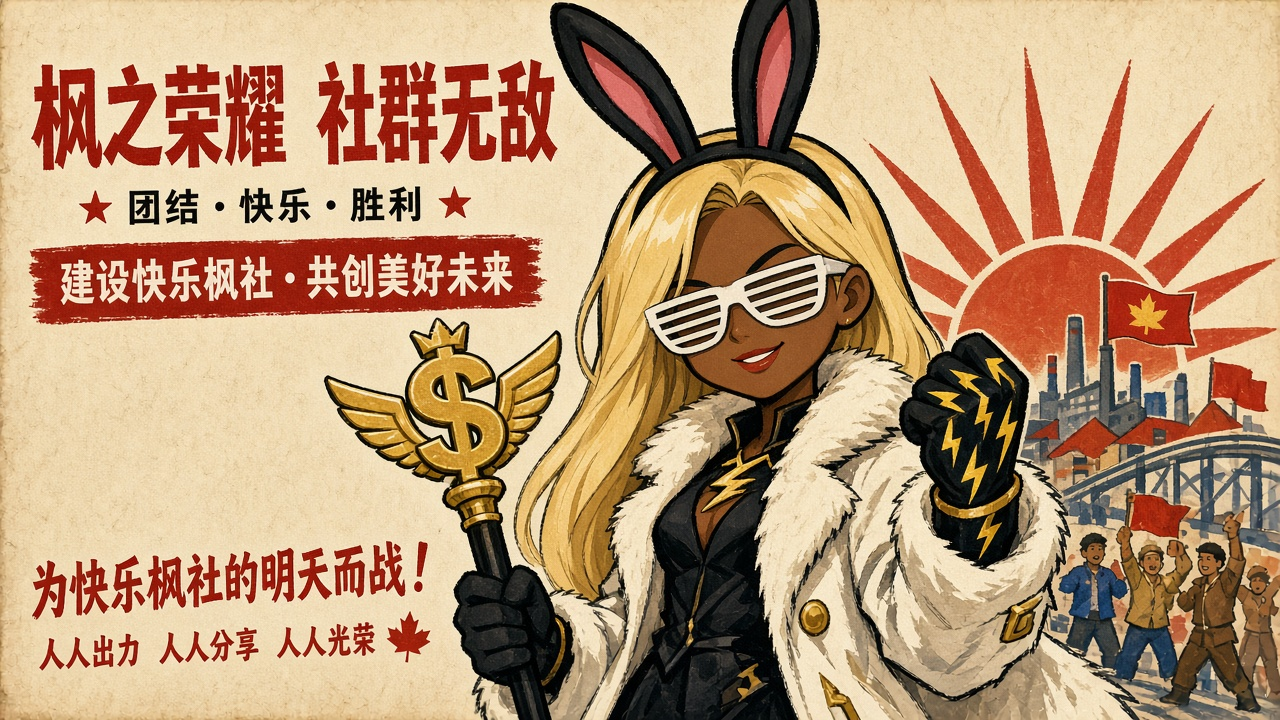
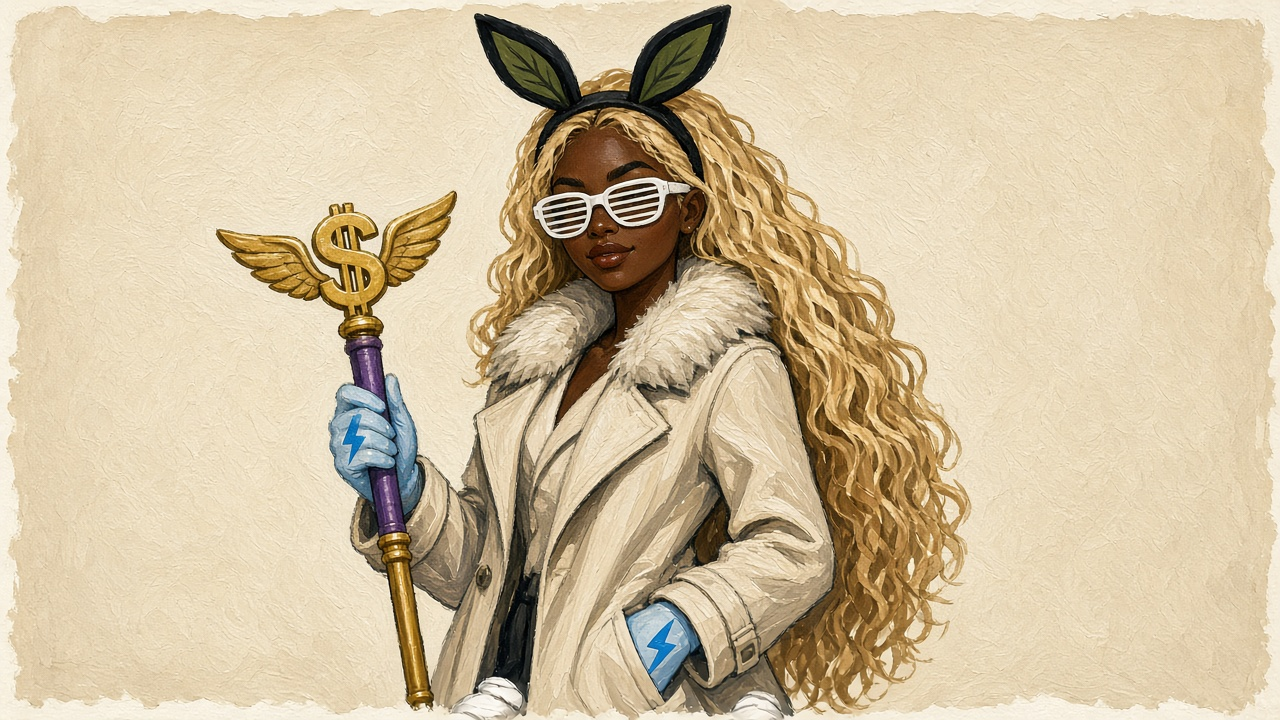
temp preview: NumbahWan LP v7.1 text-free + gs-costume wardrobe WIP

diff --git a/index.html b/index.html
@@ -80,6 +80,6 @@ footer{max-width:40rem;margin:0 auto;padding:0 .7rem 2rem;font-size:.62rem;opaci
     <h2>Evidence · likeness vs owned refs</h2>
     <img src="shots/likeness-hair-cane-reggina.png" alt="RegginA vs owned gs-costume and reggina.jpg" />
   </section>
-  <footer>v7 · Foundation 741ff7b9… · A–F HARD · temp Pages via Leader only</footer>
+  <footer>v7.1 · Foundation e642ba2b… · A–F HARD · temp Pages via Leader only</footer>
 </body>
 </html>

diff --git a/DESIGN.md b/DESIGN.md
@@ -1,29 +1,34 @@
-# DESIGN.md — NumbahWan LP v7
+# DESIGN.md — NumbahWan LP v7.1
 
[1 lines of base64/hex data omitted]
-**KEEP:** Process A–F · AntiSlop · Box-Computer-Edge · Kerning scrub · stamp 搞笑中央  
-**SUPERSEDE:** photoreal grey-mat stilts
[1 lines of base64/hex data omitted]
+**KEEP:** hand-drawn Maple×宣传画 · 人民公社 · A–F · Kerning · stamp
 
 ## Reader job
-Open 人民公社 hall → scrub Kerning parody → Join 12/24.
+Commune hall → Kerning scrub → Join.
 
 ## Exact Sources
-1. chineseposters 《人民公社好》 Rui/Yang + Landsberger Paint it Red  
-2. Owned `refs/v7-style/commune-poster-ref.jpg` + maple-avatar-example-a/b  
-3. Chrome scroll-driven + Palace 挂屏 craft
+1. `refs/gs-costume.jpeg` wardrobe SoT  
+2. chineseposters / Landsberger 宣传画 medium  
+3. Palace 挂屏 hang + Chrome scroll
 
 ### 8 slots
-| Slot | Tokens |
+| Slot | |
 | --- | --- |
-| **Type** | System/Noto Sans TC; weight 900 masthead |
-| **Spacing** | Mobile-first; sticky 100dvh scrub; no empty letterbox as primary mass |
-| **Color** | Ink `#1a120c` · Cream `#f4e8d4` · Vermillion `#c41e1e` · Gold `#c9a227` · commune lime/wood |
-| **Layout** | Hero = commune hall-hero (挂屏 IN wall); scrub Kerning; CTA after |
-| **Surface** | Photoreal commune wall + wood/glass 挂屏; **inside** frames = matte gouache 宣传画 (bold outline, flat heroic color) — not photoreal 3D, not raw pixels |
-| **Motion** | Scroll-driven kerning crossfade + `animation-range` + `@supports` + reduced-motion static stack |
-| **Composition** | N + GS + VGS triad flush hang; slogan banner 人民公社好; stamp corner |
-| **Rejects** | Photoreal grey-mat stilts; raw pixel glue; floating cards; A–F cells; grok.me attire; kepning-class typos |
+| Type | System/Noto; 900 masthead |
+| Spacing | Mobile-first; sticky scrub 100dvh |
+| Color | Ink/cream/vermillion/gold; commune plaster |
+| Layout | Hall-hero 挂屏 triad; Kerning scrub; CTA |
+| Surface | Photoreal wall+挂屏; **inside** = text-free gouache 宣传画 |
+| Motion | Scroll-driven kerning + @supports + reduced-motion |
+| Composition | N+GS+VGS flush hang; slogans only on wall banner not in portraits |
+| Rejects | Slogan-in-portrait; wrong gloves/coat; photoreal grey-mat; A–F |
 
-## Likeness HARD (identity)
-RegginA: Black woman; hair left→waist; winged $ cane; shades; fur trench — owned gs-costume + reggina.jpg  
-RegginO: owned reggino.jpg props — **rendered as 宣传画 medium**
+## RegginA wardrobe checklist (L1 gs-costume HARD)
+- [ ] Cream/off-white fur trench (not black leather / teal dress)
+- [ ] Black bunny/leaf headband
+- [ ] White shutter shades
+- [ ] Pale/light-blue gloves + **blue** lightning bolt (not white bolt / black gloves)
+- [ ] White sneakers
+- [ ] Winged $ cane + purple grip
+- [ ] Hair anatomical left → almost waist
+- [ ] **No text** inside portrait pane
